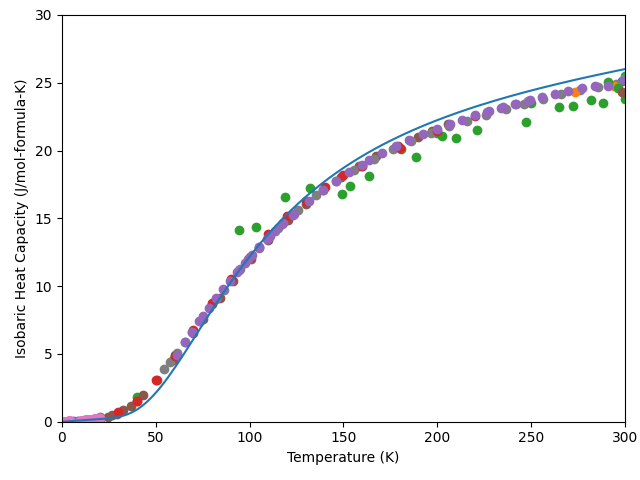
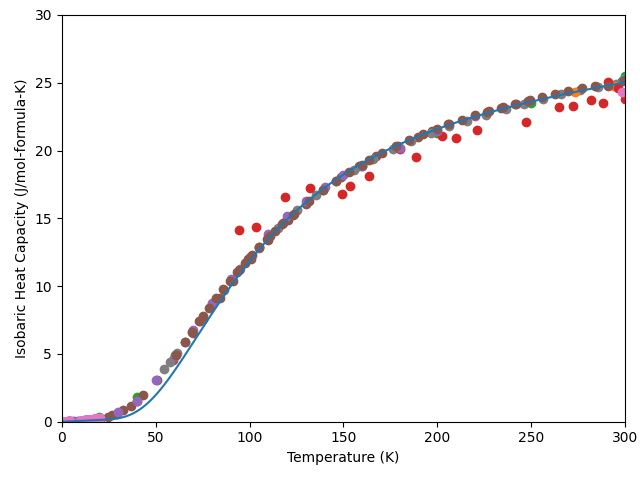
More unary FE work.

Changed region(s): [[0.3438, 0.125, 1.0, 0.5625], [0.125, 0.5625, 0.375, 0.875], [0.0625, 0.7188, 0.0938, 0.75]]

diff --git a/libreCalphad/databases/LC-steels_validation/FE/FE-test.py b/libreCalphad/databases/LC-steels_validation/FE/FE-test.py
@@ -3,7 +3,7 @@ import importlib.resources as impresources
 from libreCalphad.databases.db_utils import load_database
 import matplotlib.pyplot as plt
 import numpy as np
-from pycalphad import calculate
+from pycalphad import calculate, equilibrium, variables as v
 from tinydb import where
 import yaml
 
@@ -14,10 +14,86 @@ with open(param_gen_file, "r") as f:
     dataset_folder = yaml.safe_load(f)["system"]["datasets"]
 datasets = load_datasets(recursive_glob(dataset_folder))
 components = ["FE", "VA"]
-phase = ["BCC_A2", "FCC_A1"]
+phases = ["BCC_A2", "FCC_A1"]
+temps = (0.5, 2000, 2)
+conditions = {v.T: temps, v.N: 1, v.P: 101325}
 
+# CPM data
+
+fig, ax = plt.subplots(figsize=(8, 6))
+eq_res = equilibrium(dbf, components, phases, conditions, output="heat_capacity")
+for phase in phases:
+    cpm_res = calculate(
+        dbf, components, phase, T=temps, P=101325, N=1, output="heat_capacity"
+    )
+    ax.plot(cpm_res.T, cpm_res.heat_capacity.squeeze(), label=phase)
+
+ax.plot(eq_res.T, eq_res.heat_capacity.squeeze(), label="equilibrium")
+ax.set_xlabel("Temperature (K)")
+ax.set_ylabel("Heat Capacity (J/mol-formula-K)")
+ax.legend(loc="upper left", bbox_to_anchor=(1, 1))
+fig.tight_layout()
+fig.savefig("./all_heat_capacity.png")
+plt.close()
+
+# Gibbs energies
+
+fig, ax = plt.subplots(figsize=(8, 6))
+eq_res = equilibrium(dbf, components, phases, conditions)
+for phase in phases:
+    cpm_res = calculate(dbf, components, phase, T=temps, P=101325, N=1)
+    ax.plot(cpm_res.T, cpm_res.GM.squeeze(), label=phase)
+
+ax.set_xlabel("Temperature (K)")
+ax.set_ylabel("Gibbs Energy (J/mol-formula)")
+ax.legend(loc="upper left", bbox_to_anchor=(1, 1))
+fig.tight_layout()
+fig.savefig("./all_gibbs.png")
+plt.close()
+
+# DG
 query = (
-    (where("phases") == phase)
+    (where("phases") == phases)
+    & (where("components") == components)
+    & (where("output") == "DG-BCC_A2-FCC_A1")
+)
+search_results = datasets.search(query)
+
+fig, ax = plt.subplots()
+DG_BCC_A2 = calculate(
+    dbf,
+    components,
+    "BCC_A2",
+    T=(0.5, 2000, 2),
+    P=101325,
+    N=1,
+)
+DG_FCC_A1 = calculate(
+    dbf,
+    components,
+    "FCC_A1",
+    T=(0.5, 2000, 2),
+    P=101325,
+    N=1,
+)
+
+ax.plot(DG_BCC_A2.T, (DG_FCC_A1.GM.squeeze() - DG_BCC_A2.GM.squeeze()))
+for result in search_results:
+    ax.scatter(
+        result["conditions"]["T"],
+        np.array(result["values"]).squeeze(),
+        label=result["reference"],
+    )
+ax.set_xlabel("Temperature (K)")
+ax.set_ylabel(r"$\Delta G^{\mathrm{\alpha} \rightarrow \mathrm{\gamma}}$ (J/mol)")
+ax.legend()
+fig.tight_layout()
+plt.savefig(f"./DG-BCC_A2-FCC_A1.png")
+plt.close()
+
+# DH data
+query = (
+    (where("phases") == phases)
     & (where("components") == components)
     & (where("output") == "DH-BCC_A2-FCC_A1")
 )
@@ -44,66 +120,3 @@ ax.legend()
 fig.tight_layout()
 plt.savefig(f"./DH-BCC_A2-FCC_A1.png")
 plt.close()
-
-# # Enthalpy plotting
-#
-# query = (
-#     (where("phases") == phase)
-#     & (where("components") == components)
-#     & (where("output") == "HM")
-# )
-# search_results = datasets.search(query)
-#
-# fig, ax = plt.subplots()
-# calc_res = calculate(
-#     dbf, components, phase, T=(0.5, 2000, 2), P=101325, N=1, output="HM"
-# )
-# H298 = (
-#     calculate(dbf, components, phase, T=298.15, P=101325, N=1, output="HM")
-#     .HM.squeeze()
-#     .values
-# )
-# ax.plot(calc_res.T, calc_res.HM.squeeze())
-# for result in search_results:
-#     ax.scatter(
-#         result["conditions"]["T"],
-#         np.array(result["values"]).squeeze() + H298,
-#         label=result["reference"],
-#     )
-# ax.set_xlabel("Temperature (K)")
-# ax.set_ylabel("Enthalpy (J/mol-formula)")
-# ax.legend()
-# fig.tight_layout()
-# plt.savefig(f"./HM-CALC-FE-{phase[0]}.png")
-# plt.close()
-#
-# # Entropy plotting
-#
-# query = (
-#     (where("phases") == phase)
-#     & (where("components") == components)
-#     & (where("output") == "SM")
-# )
-# search_results = datasets.search(query)
-#
-# fig, ax = plt.subplots()
-# calc_res = calculate(
-#     dbf, components, phase, T=(0.5, 2000, 2), P=101325, N=1, output="SM"
-# )
-# S298 = (
-#     calculate(dbf, components, phase, T=298.15, P=101325, N=1, output="SM")
-#     .SM.squeeze()
-#     .values
-# )
-# ax.plot(calc_res.T, calc_res.SM.squeeze())
-# for result in search_results:
-#     ax.scatter(
-#         result["conditions"]["T"],
-#         np.array(result["values"]).squeeze() + S298,
-#         label=result["reference"],
-#     )
-# ax.set_xlabel("Temperature (K)")
-# ax.set_ylabel("Entropy (J/mol-formula-K)")
-# ax.legend()
-# fig.tight_layout()
-# plt.savefig(f"./SM-CALC-FE-{phase[0]}.png")

diff --git a/libreCalphad/databases/LC-steels_validation/FE/FE-fit-bcc.py b/libreCalphad/databases/LC-steels_validation/FE/FE-fit-bcc.py
@@ -30,7 +30,7 @@ with open(param_gen_file, "r") as f:
     dataset_folder = yaml.safe_load(f)["system"]["datasets"]
 datasets = load_datasets(recursive_glob(dataset_folder))
 components = ["FE", "VA"]
-phase = ["FCC_A1"]
+phase = ["BCC_A2"]
 query = (
     (where("phases") == phase)
     & (where("components") == components)
@@ -46,23 +46,23 @@ Tc_Fe = 1043  # K, Curie temperature for Fe
 theta_Fe = 309  # K, Einstein temperature from Chen & Sundman
 model_dict = {
     "einstein": {"theta": [300, "fit"]},
-    "xiong": {"beta": [2.22, "fit"], "p": [0.37, "fit"], "Tc": [1043, "fit"]},
+    "xiong": {"beta": [2.22, "fix"], "p": [0.37, "fix"], "Tc": [1043, "fix"]},
     "bcm": {
         "beta_1": [0.01, "fit"],
         "beta_2": [0.04, "fit"],
-        "tau": [1750, "fit"],
+        "tau": [1750, "fit", (1200, 1600)],
         "gamma": [50, "fit"],
     },
 }
 min_fits, model_dict = fit_segmented_regression(search_results, model_dict)
-theta_Fe = min_fits.x[model_dict["einstein"]["theta"][-1]]
-beta_Fe = min_fits.x[model_dict["xiong"]["beta"][-1]]
-struct_fact_bcc = min_fits.x[model_dict["xiong"]["p"][-1]]
-Tc_Fe = min_fits.x[model_dict["xiong"]["Tc"][-1]]
-beta_1 = min_fits.x[model_dict["bcm"]["beta_1"][-1]]
-beta_2 = min_fits.x[model_dict["bcm"]["beta_2"][-1]]
-tau = min_fits.x[model_dict["bcm"]["tau"][-1]]
-gamma = min_fits.x[model_dict["bcm"]["gamma"][-1]]
+theta_Fe = model_dict["einstein"]["theta"][0]
+beta_Fe = model_dict["xiong"]["beta"][0]
+struct_fact_bcc = model_dict["xiong"]["p"][0]
+Tc_Fe = model_dict["xiong"]["Tc"][0]
+beta_1 = model_dict["bcm"]["beta_1"][0]
+beta_2 = model_dict["bcm"]["beta_2"][0]
+tau = model_dict["bcm"]["tau"][0]
+gamma = model_dict["bcm"]["gamma"][0]
 
 if os.path.exists("./_fitted_params.json"):
     with open("./_fitted_params.json", "r") as f:
@@ -91,7 +91,7 @@ print(f"beta_1={beta_1:3f}")
 print(f"beta_2={beta_2:3f}")
 print(f"tau={tau:3f}")
 print(f"gamma={gamma:3f}")
-print(f"RSE: {min_fits.fun:.4f} J/mol/K")
+print(f"RSE: {min_fits.fun:.4f} %")
 # print(f"H298: {H298}")
 # print(f"S298: {S298}")
 
@@ -114,7 +114,7 @@ with open(refstate_file, "w") as f:
 ser_file = impresources.files("refstate") / "LCSERparams.json"
 with open(ser_file, "r") as f:
     ser_dict = json.load(f)
-ser_dict["FE"] = {"phase": "BCC_A2", "mass": 55.847, "H298": H298, "S298": S298}
+# ser_dict["FE"] = {"phase": "BCC_A2", "mass": 55.847, "H298": H298, "S298": S298}
 with open(ser_file, "w") as f:
     json.dump(ser_dict, f, indent=True)
 # prepare arrays for plotting
@@ -132,7 +132,7 @@ df_model["cumulative_model"] = (
     + df_model["bent_cable_model"]
 )
 
-fig, ax = plt.subplots()
+fig, ax = plt.subplots(figsize=(8, 6))
 for dataset in search_results:
     ax.scatter(
         dataset["conditions"]["T"],
@@ -143,7 +143,7 @@ ax.plot(df_model["temperature"], df_model["einstein_model"], label="Einstein")
 ax.plot(df_model["temperature"], df_model["magnetic_model"], label="Magnetic")
 ax.plot(df_model["temperature"], df_model["bent_cable_model"], label="Bent Cable")
 ax.plot(df_model["temperature"], df_model["cumulative_model"], label="Cumulative")
-ax.legend()
+ax.legend(loc="upper left", bbox_to_anchor=(1, 1))
 
 ax.set_xlabel("Temperature (K)")
 ax.set_ylabel("Heat Capacity (J/mol-K-atom)")

diff --git a/libreCalphad/models/segmented_regression.py b/libreCalphad/models/segmented_regression.py
@@ -488,10 +488,7 @@ def _xiong_gibbs(T_arr, beta, p, Tc, ret_expr=False):
 def _calc_RSE(model_array, Cp_array):
     num_SR_params = 5  # from the paper
     return np.sqrt(
-        np.sum(
-            np.square(np.nan_to_num((model_array - Cp_array) / Cp_array))
-            # / (len(model_array) - num_SR_params - 1)
-        )
+        np.sum(np.square(np.nan_to_num((model_array - Cp_array) / Cp_array)))
     )
 
 
@@ -631,7 +628,7 @@ def fit_segmented_regression(
         "beta_1": (0, 1),
         "beta_2": (0, 1),
         "tau": (0, 3000),
-        "gamma": (0, 1000),
+        "gamma": (1e-6, 1000),
         "dE0": (0, 15000),
         "dE1": (-100, 100),
     }
